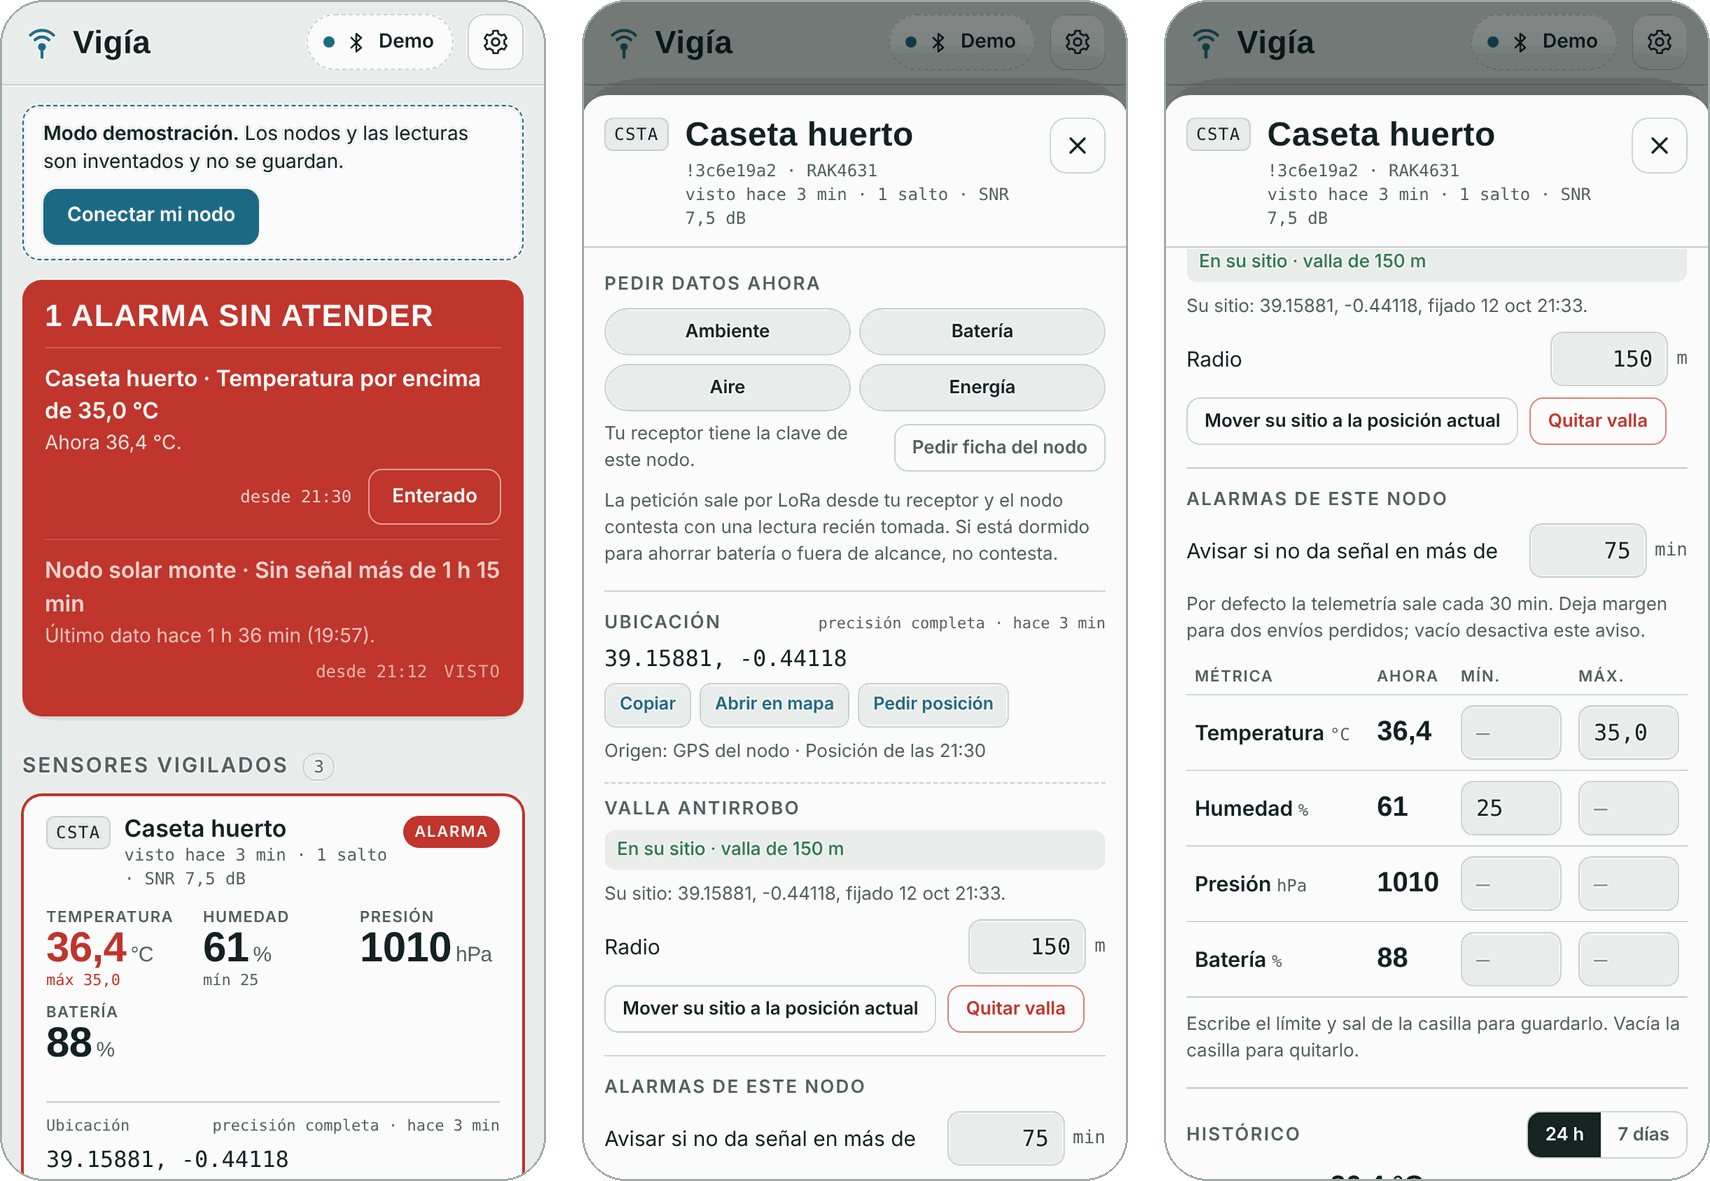
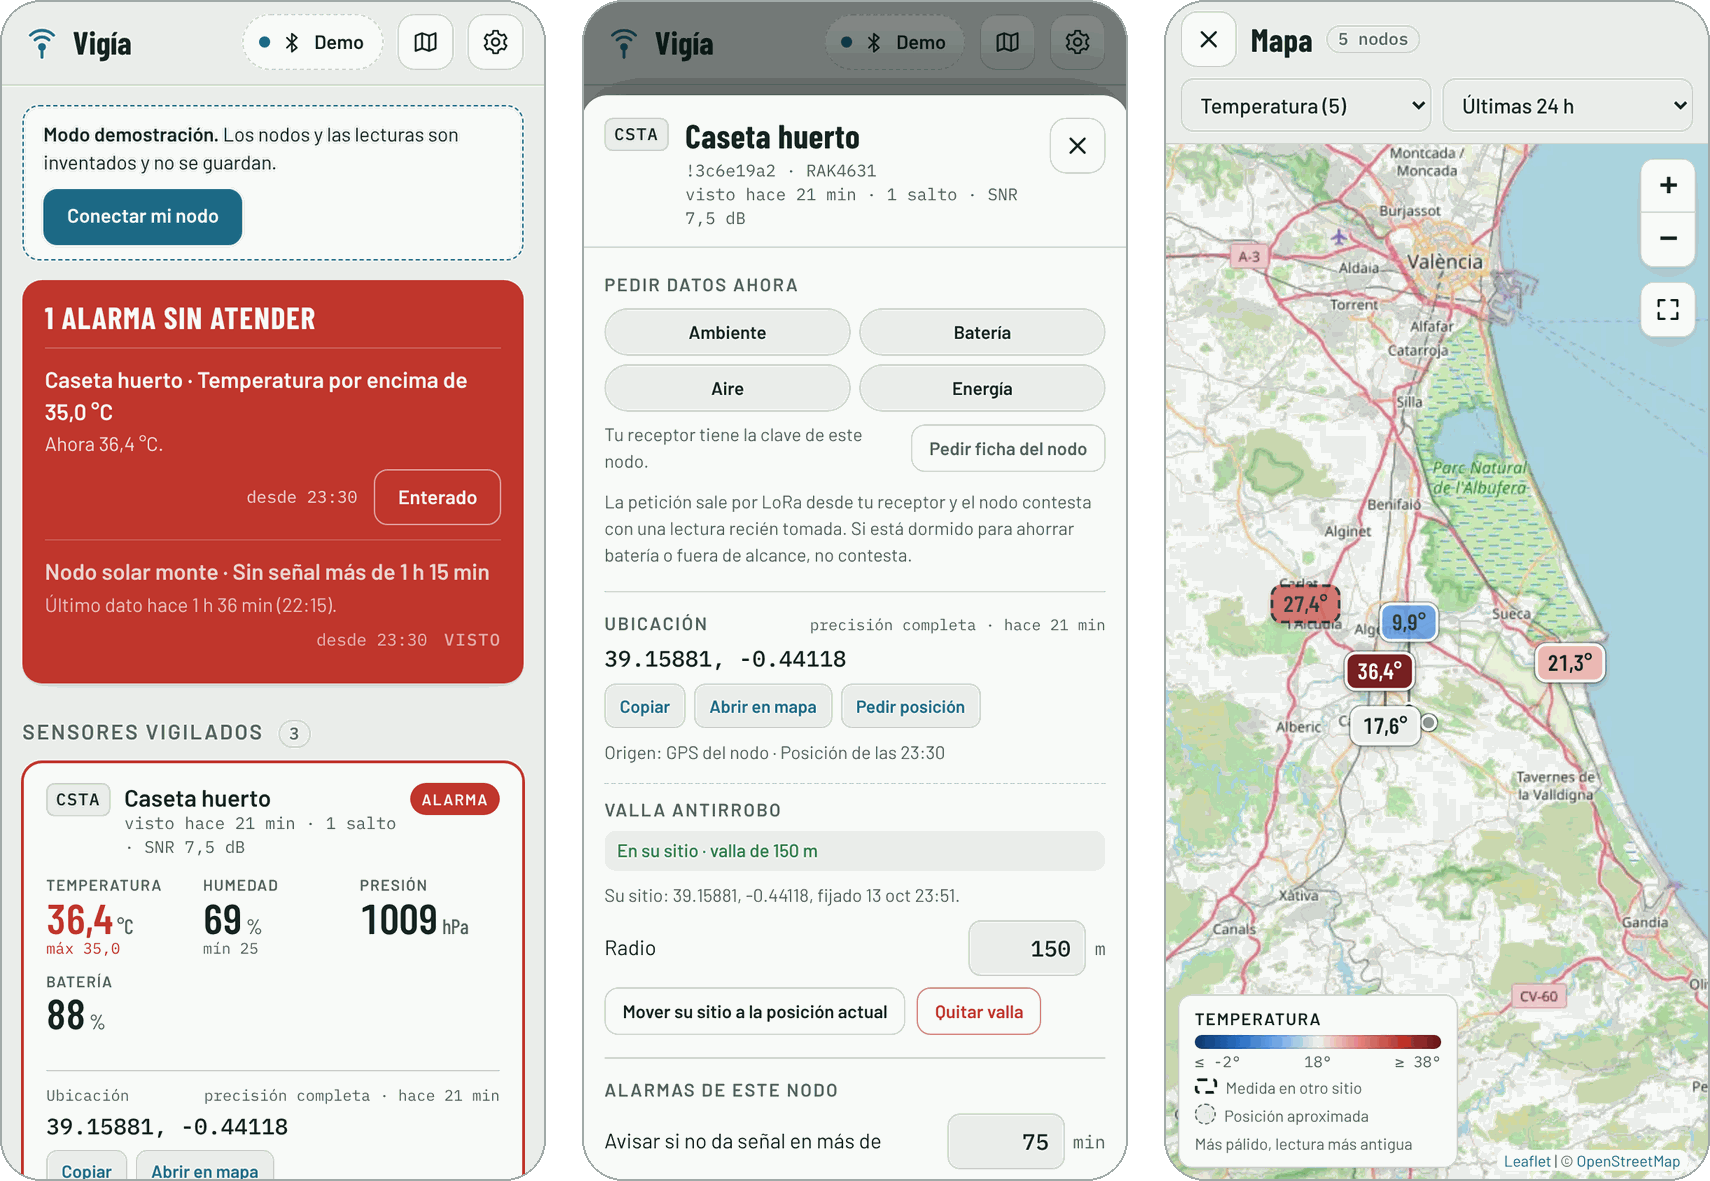
README: captura nueva con el mapa de sensores
La tercera pantalla pasa a ser el mapa (antes, la tabla de límites). Hecha
en modo demostración con las fuentes de la app y el fondo real de
OpenStreetMap.

Claude-Session: https://claude.ai/code/session_01AgdVTAA9RWAChQ3tzKJjqw

diff --git a/README.md b/README.md
@@ -6,7 +6,7 @@ Panel de telemetría y alarmas para nodos [Meshtastic](https://meshtastic.org) q
 
 > **Versión beta.** La app funciona, pero aún se está probando con distintos nodos y móviles. Si algo falla o echas algo en falta, [abre un aviso](https://github.com/Dani-NRos/vigia-mesh/issues).
 
-<p align="center"><img src="capturas/panel.png" alt="Tres pantallas de Vigía Mesh en modo demostración: el panel con una alarma de temperatura activa, la ficha de un nodo con los botones para pedir datos, su ubicación y la valla antirrobo, y los límites de alarma por métrica"></p>
+<p align="center"><img src="capturas/panel.png" alt="Tres pantallas de Vigía Mesh en modo demostración: el panel con una alarma de temperatura activa, la ficha de un nodo con los botones para pedir datos, su ubicación y la valla antirrobo, y el mapa de sensores con la temperatura de cada nodo sobre el mapa de la Ribera y l'Horta"></p>
 
 ## Qué hace
 

diff --git a/codigo/pwa/README.md b/codigo/pwa/README.md
@@ -6,7 +6,7 @@ Panel de telemetría y alarmas para nodos [Meshtastic](https://meshtastic.org) q
 
 > **Versión beta.** La app funciona, pero aún se está probando con distintos nodos y móviles. Si algo falla o echas algo en falta, [abre un aviso](https://github.com/Dani-NRos/vigia-mesh/issues).
 
-<p align="center"><img src="capturas/panel.png" alt="Tres pantallas de Vigía Mesh en modo demostración: el panel con una alarma de temperatura activa, la ficha de un nodo con los botones para pedir datos, su ubicación y la valla antirrobo, y los límites de alarma por métrica"></p>
+<p align="center"><img src="capturas/panel.png" alt="Tres pantallas de Vigía Mesh en modo demostración: el panel con una alarma de temperatura activa, la ficha de un nodo con los botones para pedir datos, su ubicación y la valla antirrobo, y el mapa de sensores con la temperatura de cada nodo sobre el mapa de la Ribera y l'Horta"></p>
 
 ## Qué hace
 
